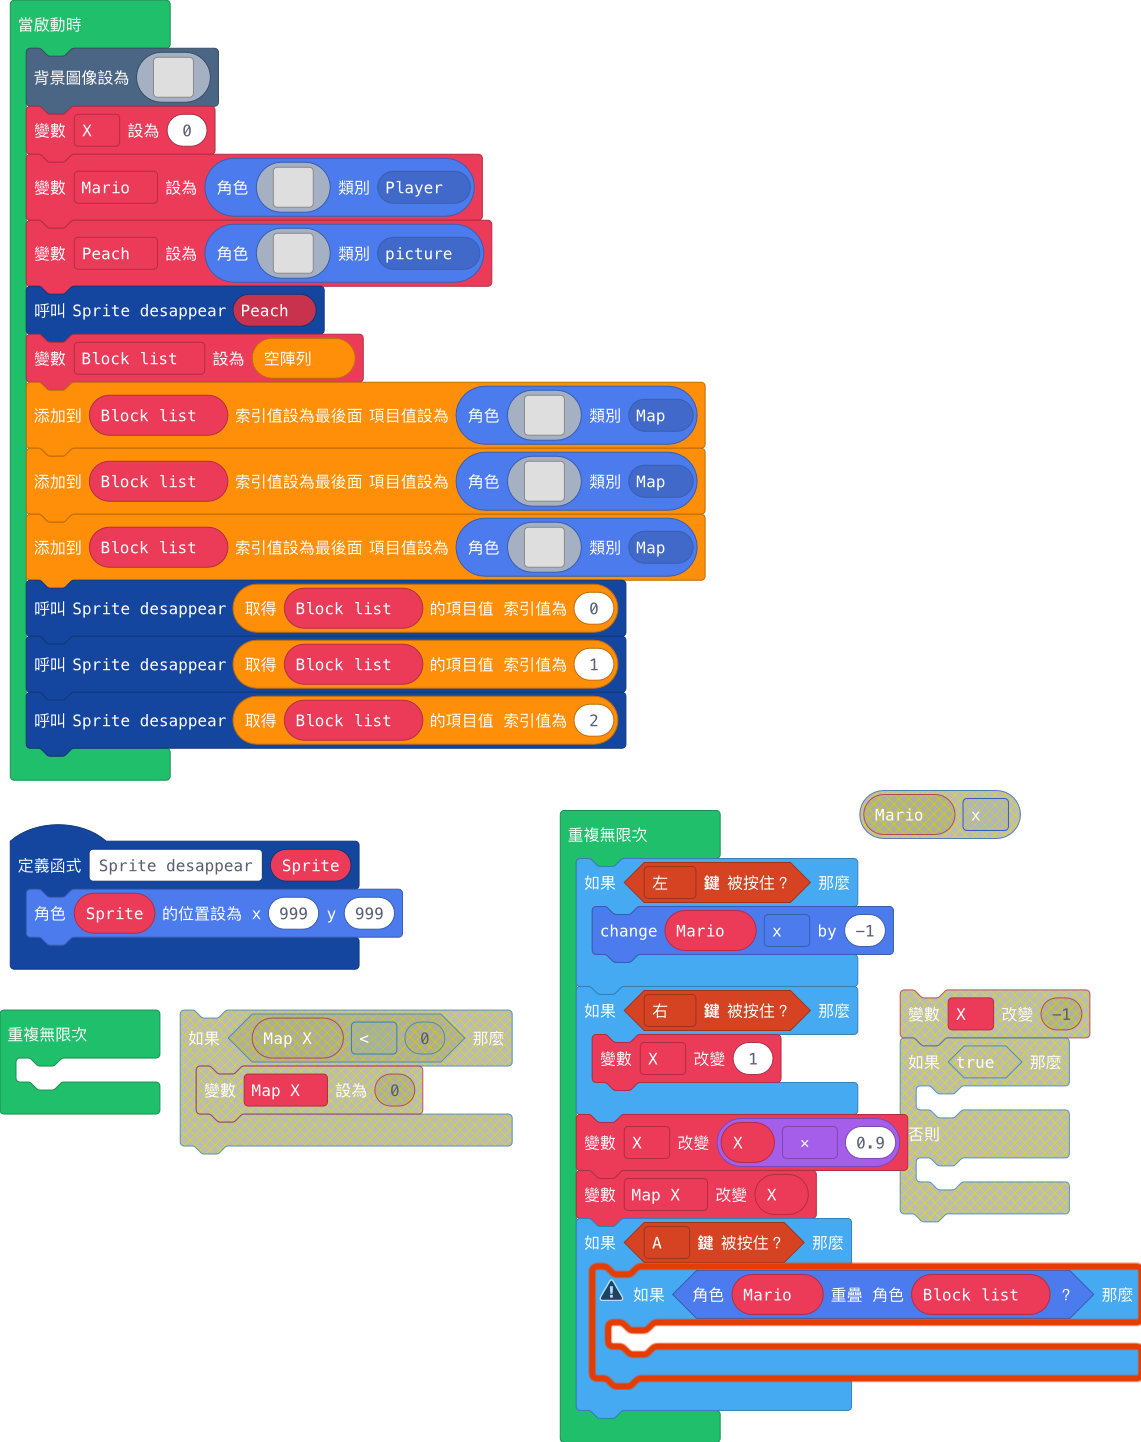
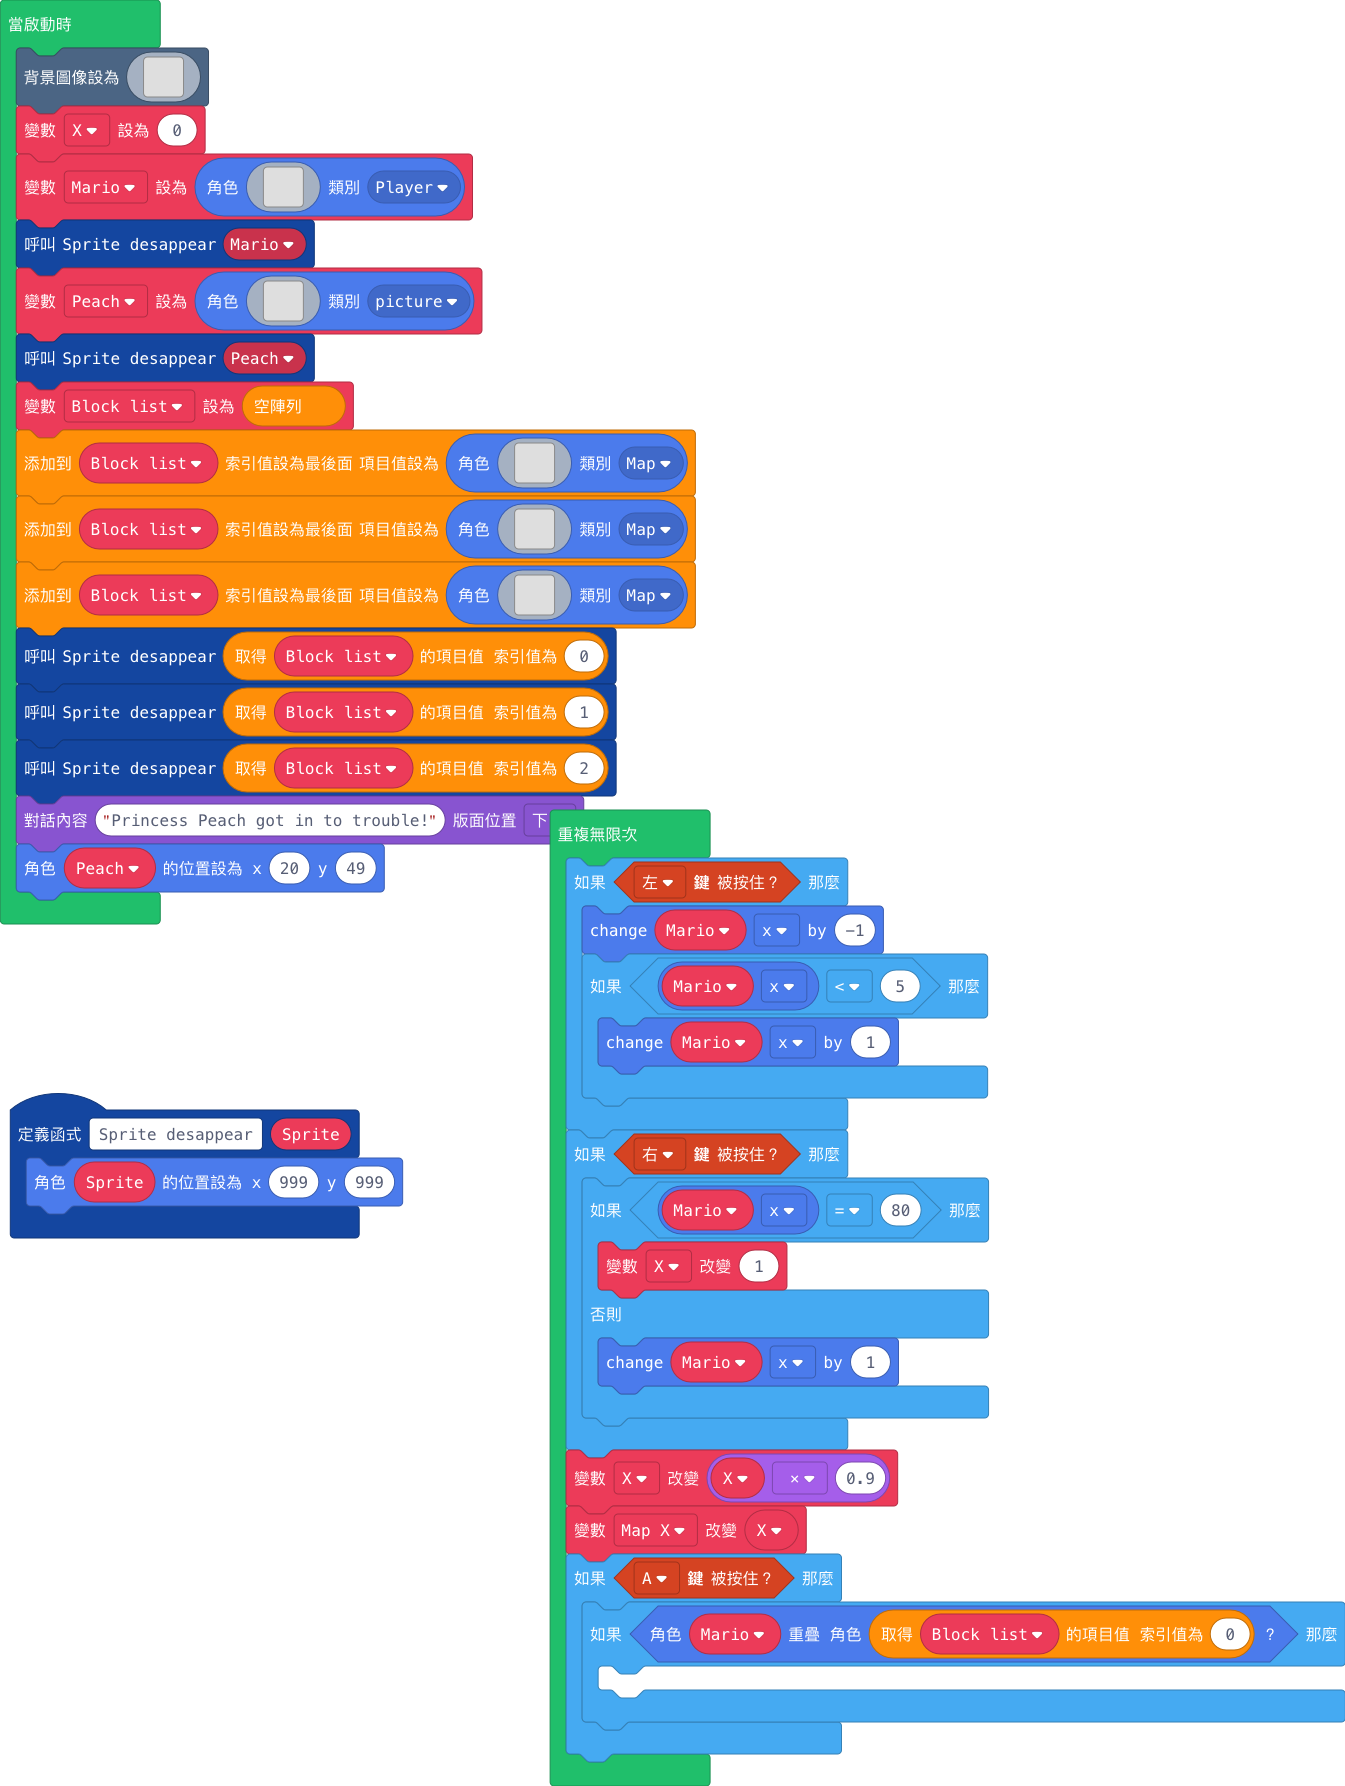
Update main.blocks, main.ts

diff --git a/main.ts b/main.ts
@@ -147,6 +147,7 @@ let Mario = sprites.create(img`
 . . . e e e . . . . e e e . . . 
 . . e e e e . . . . e e e e . . 
 `, SpriteKind.Player)
+Sprite_desappear(Mario)
 let Peach = sprites.create(img`
 . . . . . 4 . 4 4 . 4 . . . . . . . . . . . . . . 
 . . . . . 4 4 4 4 4 4 . . . . . . . . . . . . . . 
@@ -228,22 +229,27 @@ f f f f f f f f f f f f f f f 4
 Sprite_desappear(Block_list[0])
 Sprite_desappear(Block_list[1])
 Sprite_desappear(Block_list[2])
+game.showLongText("Princess Peach got in to trouble!", DialogLayout.Bottom)
+Peach.setPosition(20, 49)
 forever(function () {
-    Mario.say(Mario)
     if (controller.left.isPressed()) {
         Mario.x += -1
+        if (Mario.x < 5) {
+            Mario.x += 1
+        }
     }
     if (controller.right.isPressed()) {
-        X += 1
+        if (Mario.x == 80) {
+            X += 1
+        } else {
+            Mario.x += 1
+        }
     }
     X += X * 0.9
     Map_X += X
     if (controller.A.isPressed()) {
-        if (Mario.overlapsWith(Block_list)) {
+        if (Mario.overlapsWith(Block_list[0])) {
         	
         }
     }
-})
-forever(function () {
-	
 })
